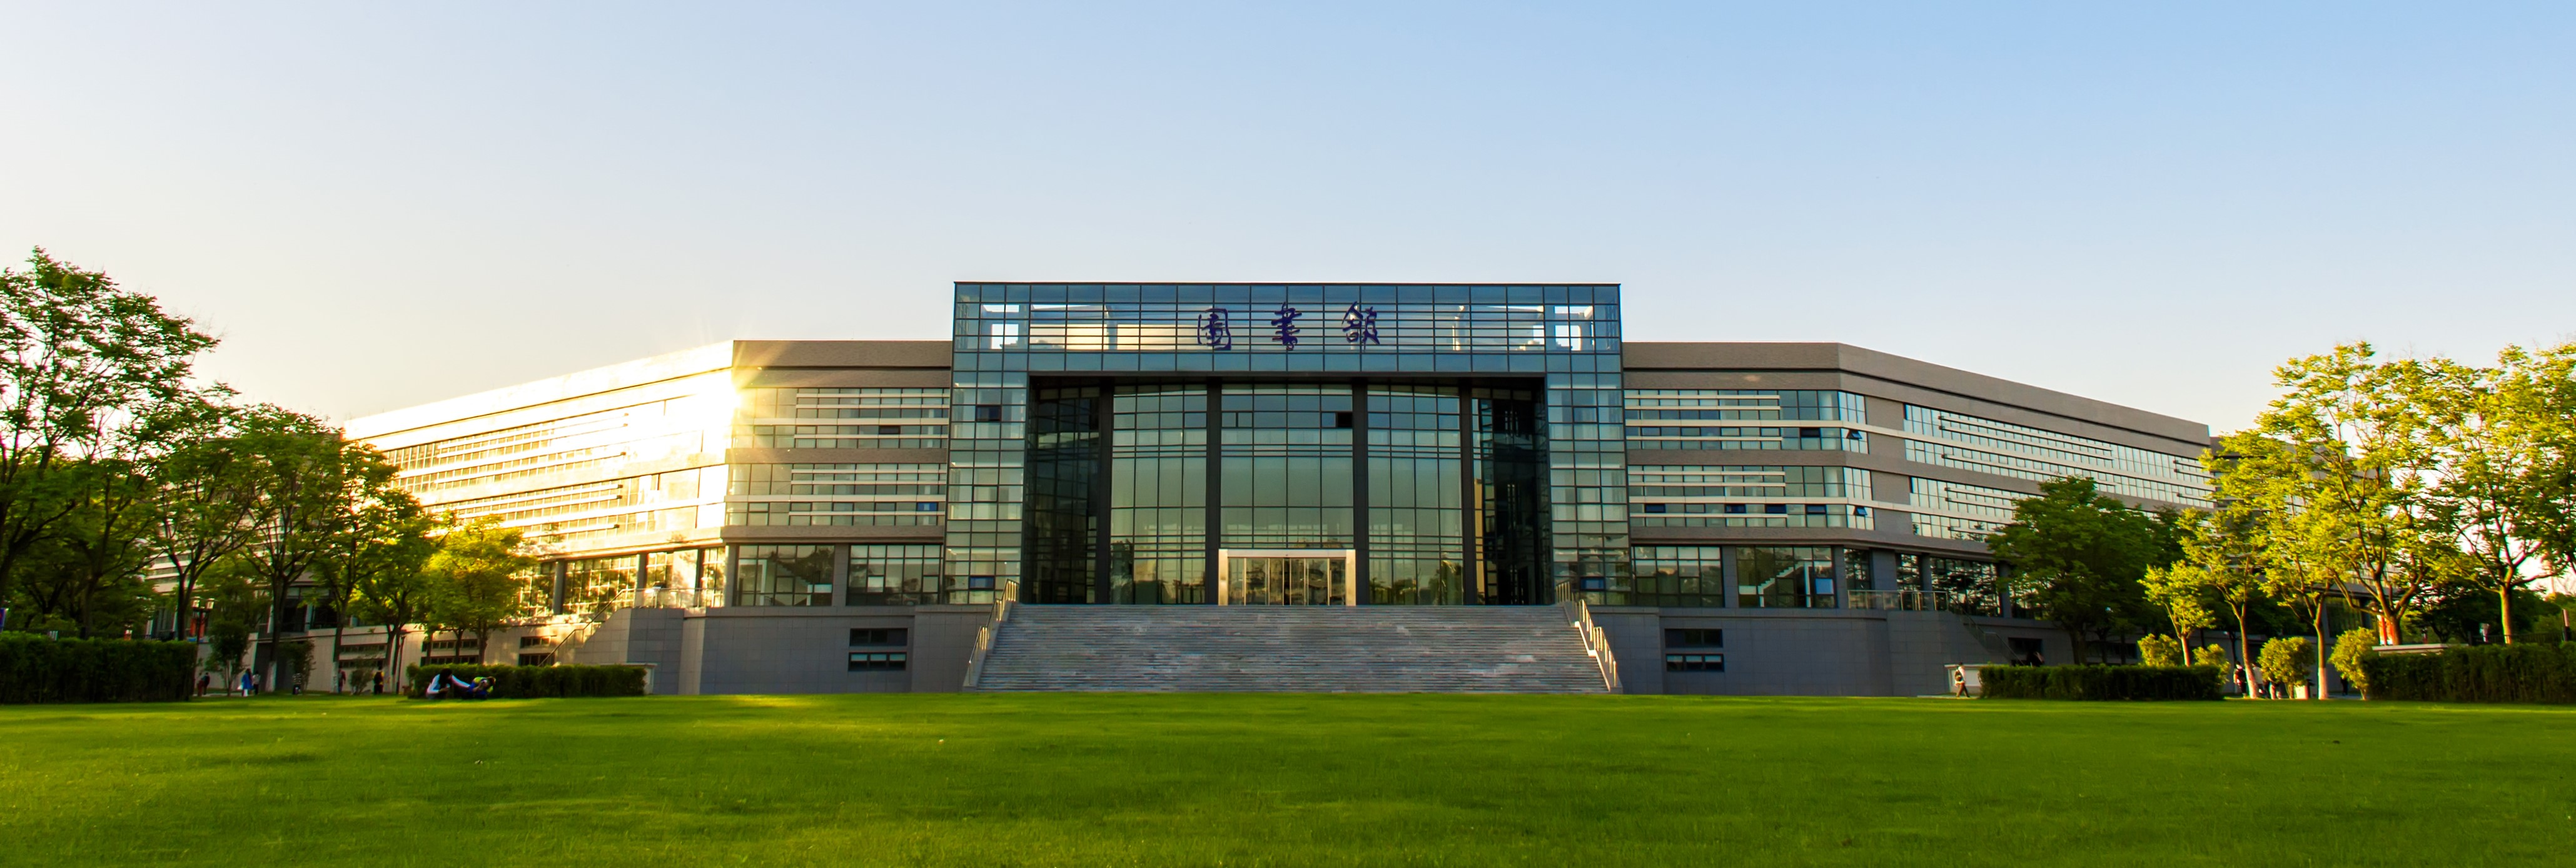
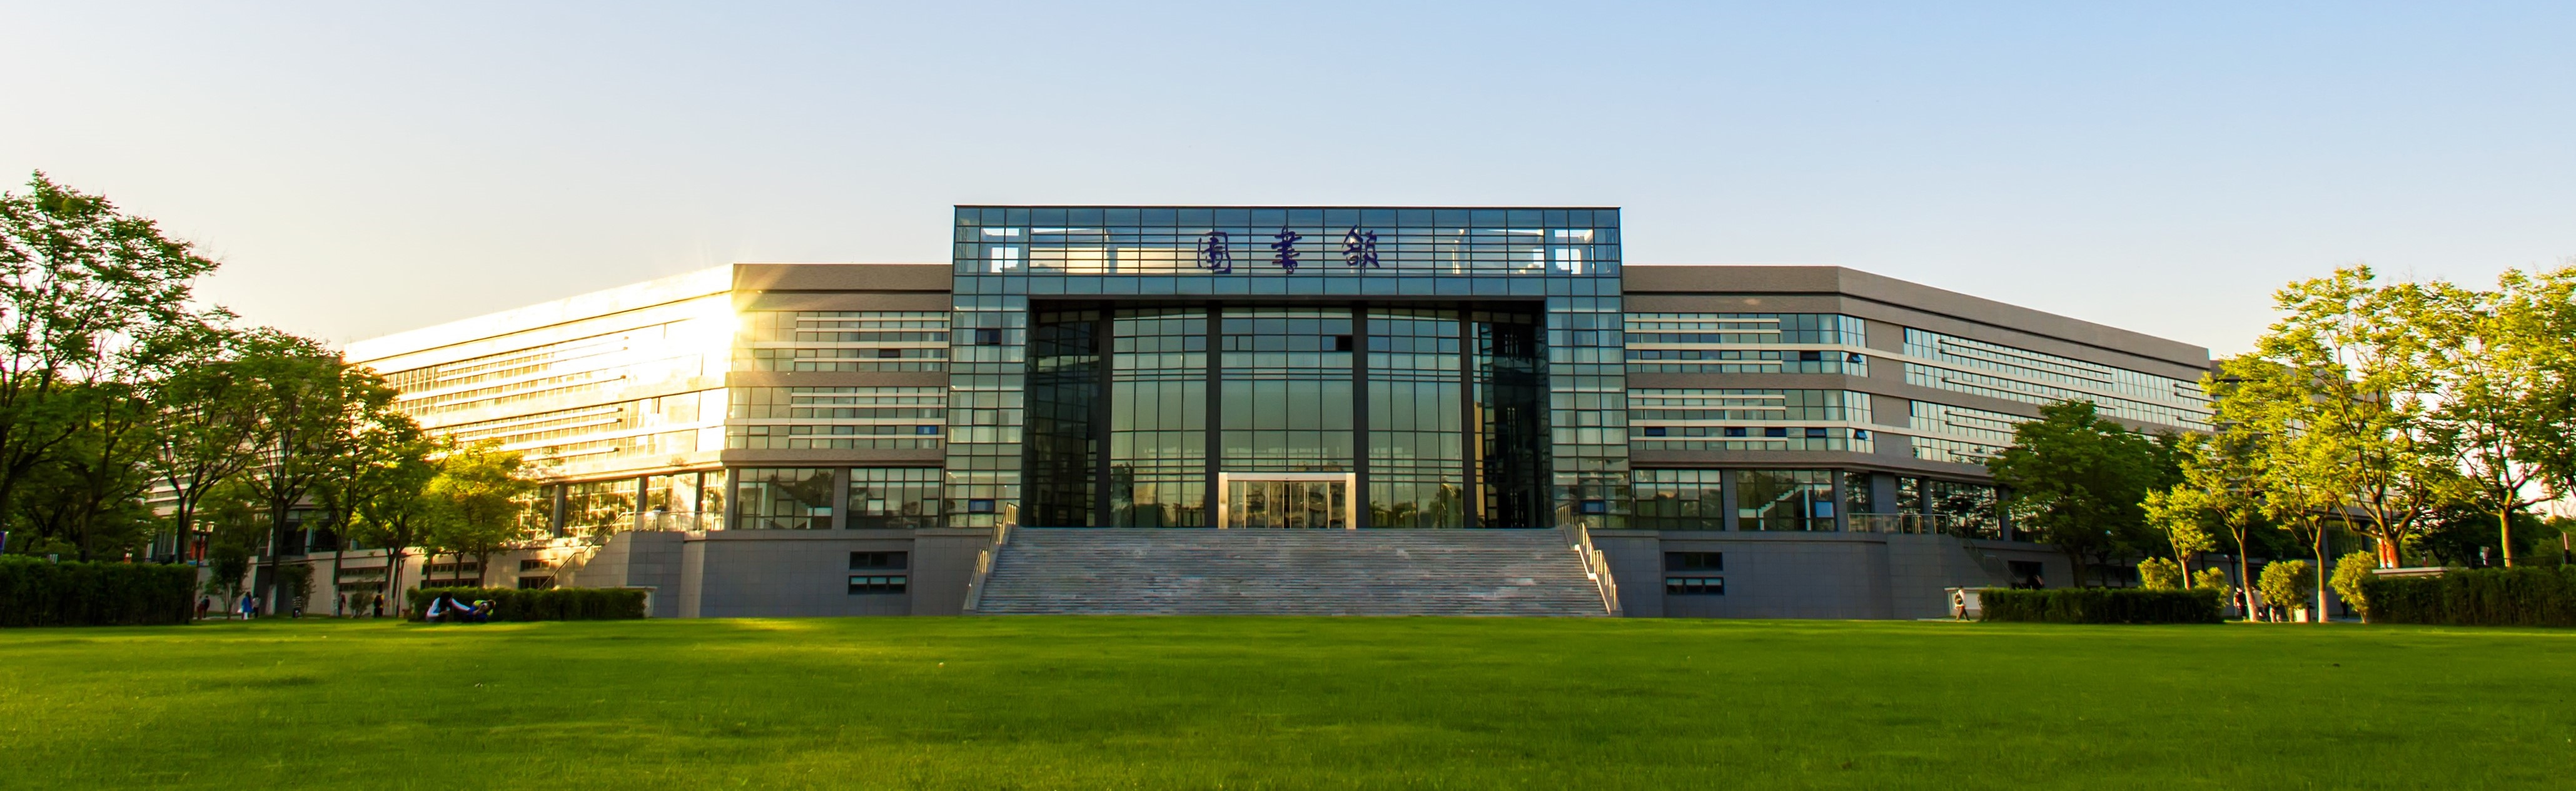
updates

diff --git a/content/home/news.md b/content/home/news.md
@@ -23,7 +23,7 @@ design:
 
 ## 2023
 
-- **2023-01-22** 新春快乐！AIM 实验室正式启用新版官方主页（域名 http://xxx.cn ）！
+- **2023-01-22** 新春快乐！AIM 实验室正式启用新版官方主页（域名 https://multimodality.group）！
 <br/><br/>
 
 ## 2022

diff --git a/content/post/_index.md b/content/post/_index.md
@@ -6,8 +6,8 @@ view: compact
 
 # Optional banner image (relative to `assets/media/` folder).
 banner:
-  caption: '逸夫图书馆'
-  image: 'background/hohai_purple.jpg'
+  caption: '江宁校区图书馆新馆'
+  image: 'background/hohai_green.jpg'
 
 ---
 ---

diff --git a/content/home/welcome.md b/content/home/welcome.md
@@ -5,7 +5,7 @@ design:
   css_style: null
   css_class: null
   background:
-    image: 'background/red_blue.jpg'
+    image: 'red_blue.jpg'
     image_darken: 0.8
     image_parallax: false
     image_position: center

diff --git a/content/home/index.md b/content/home/index.md
@@ -1,7 +1,7 @@
 ---
 # Files in this folder represent a Widget Page (homepage)
-# type: widget_page
+type: widget_page
 
 # Homepage is headless, other widget pages are not.
-headless: false
+headless: true
 ---

diff --git a/content/publication/_index.md b/content/publication/_index.md
@@ -3,7 +3,7 @@ title: 代表性成果
 
 view: Compact
 banner:
-  caption: 逸夫图书馆
+  caption: 江宁校区逸夫图书馆
   image: background/hohai_purple2.jpg
 
 publication_types:
